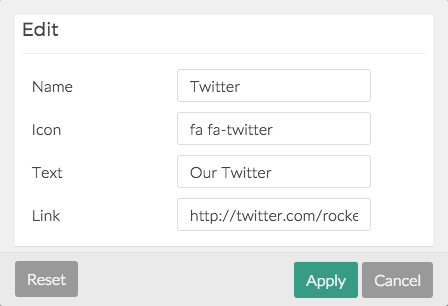
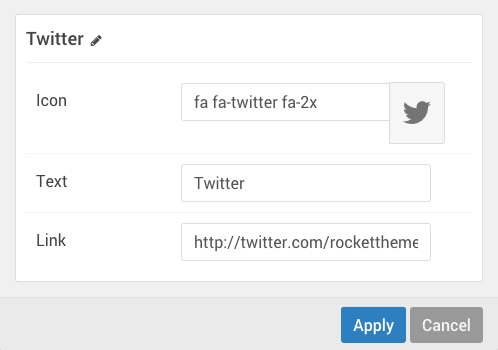
Social, Stylesheet, Docs Updates

diff --git a/pages/01.gantry5/04.particles/05.social/docs.md b/pages/01.gantry5/04.particles/05.social/docs.md
@@ -10,6 +10,8 @@ process:
     twig: true
 ---
 
+![Social](social.png) {.border .shadow}
+
 The **Social** particle makes it easy to create and place a component on the frontend that add social elements to your pages. This particle can each be placed anywhere on the page to enable visitors to simply find and subscribe to your site's associated social media pages.
 
 Settings
@@ -19,7 +21,7 @@ The **Social Buttons** particle enables you to quickly and easily add text and/o
 
 Gantry has built-in support for FontAwesome, which gives you access to a wide variety of social media icons you can quickly add to your particle to make your social buttons stand out.
 
-![Settings](social_settings.png) {.border .shadow}
+![Settings](social_settings_1.png) {.border .shadow}
 
 | Setting      | Description                                                                                                         |
 | :-----       | :-----                                                                                                              |
@@ -33,7 +35,6 @@ If you select the cogwheel next to the individual social items, a pop-up will ap
 
 | Setting | Description                                                                                                           |
 | :-----  | :-----                                                                                                                |
-| Name    | Sets the name of the social link. This is used for administrative purposes only, and does not appear on the frontend. |
 | Icon    | Sets the icon that appears next to the **Text**                                                                       |
 | Text    | Sets the text that appears as the link.                                                                               |
 | Link    | Sets the link (absolute URL) to the associated social page.                                                           |

diff --git a/pages/01.gantry5/03.configure/06.assignments/docs.md b/pages/01.gantry5/03.configure/06.assignments/docs.md
@@ -22,3 +22,5 @@ Settings
 The **Assignments** panel acts as a quick and easy on/off switchboard for assigning Configurations to Pages, Article Categories, etc. The assignment options that appear in this screen vary from CMS to CMS and even site to site, depending greatly on the types and availability of pages the Configuration can be assigned to.
 
 For a new website with only a home page, this may be the only available option until additional content is created.
+
+>>> Items in this page can exist in three different stages. They can be set to `On` which assigns the currently-selected Configuration to this item, `Off` which doesn't assign the current Configuration to the item, or an invalid state which can't be assigned as it isn't an assignable item. These items are typically non-assignable items such as aliases, external URLs, or text separators. Invalid items are marked with the <i class="fa fa-rocket"></i> icon.

diff --git a/pages/01.gantry5/05.tutorials/02.adding-a-custom-stylesheet/docs.md b/pages/01.gantry5/05.tutorials/02.adding-a-custom-stylesheet/docs.md
@@ -16,7 +16,7 @@ Adding a custom stylesheet is a fairly straightforward process. The first thing 
 
 {% set tab1 %}
 
-To do this, navigate in the directory structure to `(site root)/templates/(template directory)/custom/scss` and create a file called `custom.scss` if one doesn't already exist. If it already does, just open it and make your additions/changes directly to the file.
+To do this, navigate in the directory structure to `(site root)/templates/(template directory)/custom/scss` and create a file called `custom.scss` if one doesn't already exist. If the `/custom/css/` directory doesn't exist, you will need to create that, too. If it already does, just open it and make your additions/changes directly to the file.
 
 {% endset %}
 {% set tab2 %}
